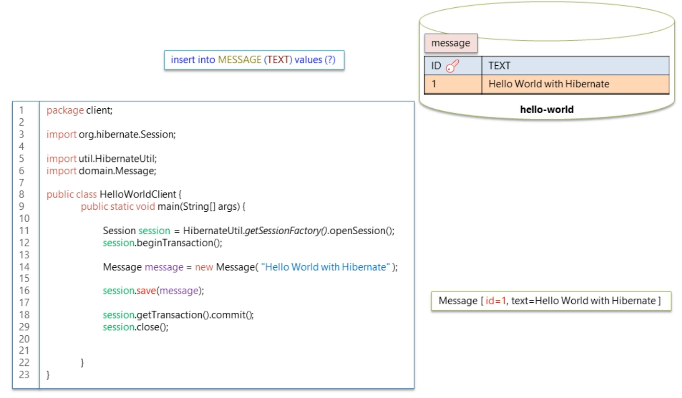
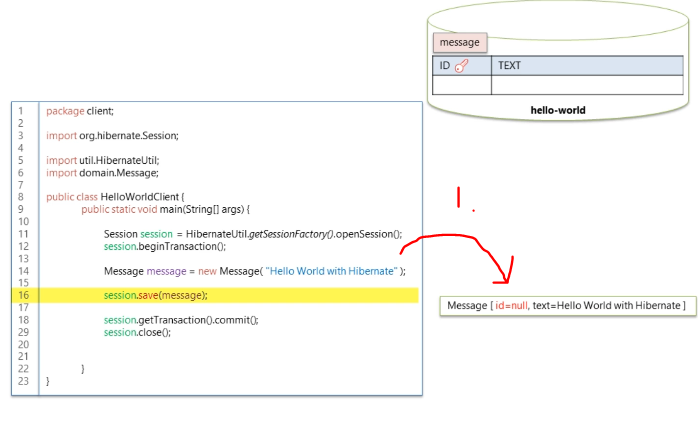
proceeded

Changed region(s): [[0.0, 0.0, 1.0, 0.995], [0.2155, 0.1206, 0.5235, 0.1809], [0.6466, 0.4523, 0.6774, 0.4824]]

diff --git a/Java Persistence Hibernate and JPA Fundamentals/Section 03/README.md b/Java Persistence Hibernate and JPA Fundamentals/Section 03/README.md
@@ -83,8 +83,102 @@ Getting Started with Hibernate and JPA Annotations.
 <img src="namingOfMappingClasses.PNG"  alt="hibernate course" width="500"/>
 
 1. The mapping file is called `Object/Relational Mapping Metadata` file.
-2. The Java class is called `Persistent class`
+2. The Java class is called `Persistent class`.
 
 - ❌ Two classes needs to be in same **package**, here they are in `domain` **package** ❌.
 
 <img src="PersistingObject.PNG"  alt="hibernate course" width="500"/>
+
+1. The state of the `Message` Object at this point.
+
+<img src="PersistingObjectSecond.PNG"  alt="hibernate course" width="500"/>
+
+1. When calling `.save`, **Hibernate** will execute following **SQL query** behind the scenes.
+    - Notice that the `id=1` is **not null** anymore, but the **Message** object is not inserted into the database yet.
+    - Where is this `id=1` comes from, if there is no record in db?
+        - Behind the scenes **Hibernate** is using **JDBC Transactions** is used.
+            - This means `id` is generated by **MySQL**, which are yet to committed to the database, because usage of **Transaction**.
+2. This will be finished after calling `session.getTranaction().commit()`.            
+
+<img src="PersistingObjectThird.PNG"  alt="hibernate course" width="500"/>
+
+1. We can also do the `JPA @annotation` mapping.
+2. These two configuration types will have same kind of information.
+3. Example of **@annotation** of **persistent entity** in the Java object `@Entity`.
+4. When using **annotation** remember to use, the configuration to the `<mapping> class="entity.Message"/>`. 
+
+# 10. Lab - Hello World with Hibernate and JPA Annotations.
+
+- In this lab we will have the following db. We will do `hello-word` application.
+
+```
+DROP DATABASE IF EXISTS `hello-world`; 
+CREATE DATABASE `hello-world`; 
+
+USE `hello-world`; 
+
+CREATE TABLE `message` ( 
+	`ID` BIGINT(20) NOT NULL AUTO_INCREMENT, 
+	`TEXT` VARCHAR(255) NULL DEFAULT NULL, 
+	PRIMARY KEY (`ID`) 
+); 
+```
+
+- We will run the project **twice**.
+    - Once for old `.xml` mapping.
+    - Other one with the `@annotations`.
+
+- Example of `.xml` mapping file.
+
+```
+<?xml version='1.0' encoding='utf-8'?>
+<!DOCTYPE hibernate-configuration PUBLIC
+        "-//Hibernate/Hibernate Configuration DTD 3.0//EN"
+        "http://www.hibernate.org/dtd/hibernate-configuration-3.0.dtd">
+
+<hibernate-configuration>
+    <session-factory>
+
+        <!-- Database connection settings -->
+        <property name="connection.driver_class">com.mysql.jdbc.Driver</property>
+        <property name="connection.url">jdbc:mysql://localhost:3306/hello-world</property>
+        <property name="connection.username">root</property>
+        <property name="connection.password">password</property>
+
+        <!-- SQL dialect -->
+        <property name="dialect">org.hibernate.dialect.MySQLDialect</property>
+
+        <!-- Echo all executed SQL to stdout -->
+        <property name="show_sql">true</property>
+        
+        <!-- Use XML-based mapping metadata -->	
+        <!-- <mapping resource="domain/Message.hbm.xml"/> -->
+        
+        <!-- Use Annotation-based mapping metadata -->
+        <mapping class="entity.Message"/> 
+        
+    </session-factory>
+</hibernate-configuration>
+```
+
+- And the mapping for the `Message` **Object** to the `MESSAGE` **Table**.
+
+```
+<?xml version="1.0"?>
+<!DOCTYPE hibernate-mapping PUBLIC
+        "-//Hibernate/Hibernate Mapping DTD 3.0//EN"
+        "http://www.hibernate.org/dtd/hibernate-mapping-3.0.dtd">
+
+<hibernate-mapping package="domain">
+	<class name="Message" table="MESSAGE">
+		<id name="id" column="ID">
+			<generator class="native" />
+		</id>
+		<property name="text" type="string" column="TEXT"/>
+	</class>
+</hibernate-mapping>
+```
+
+<img src="noticeTheSameDomain.PNG"  alt="hibernate course" width="400"/>
+
+1. **NOTICE** the same domain package.
